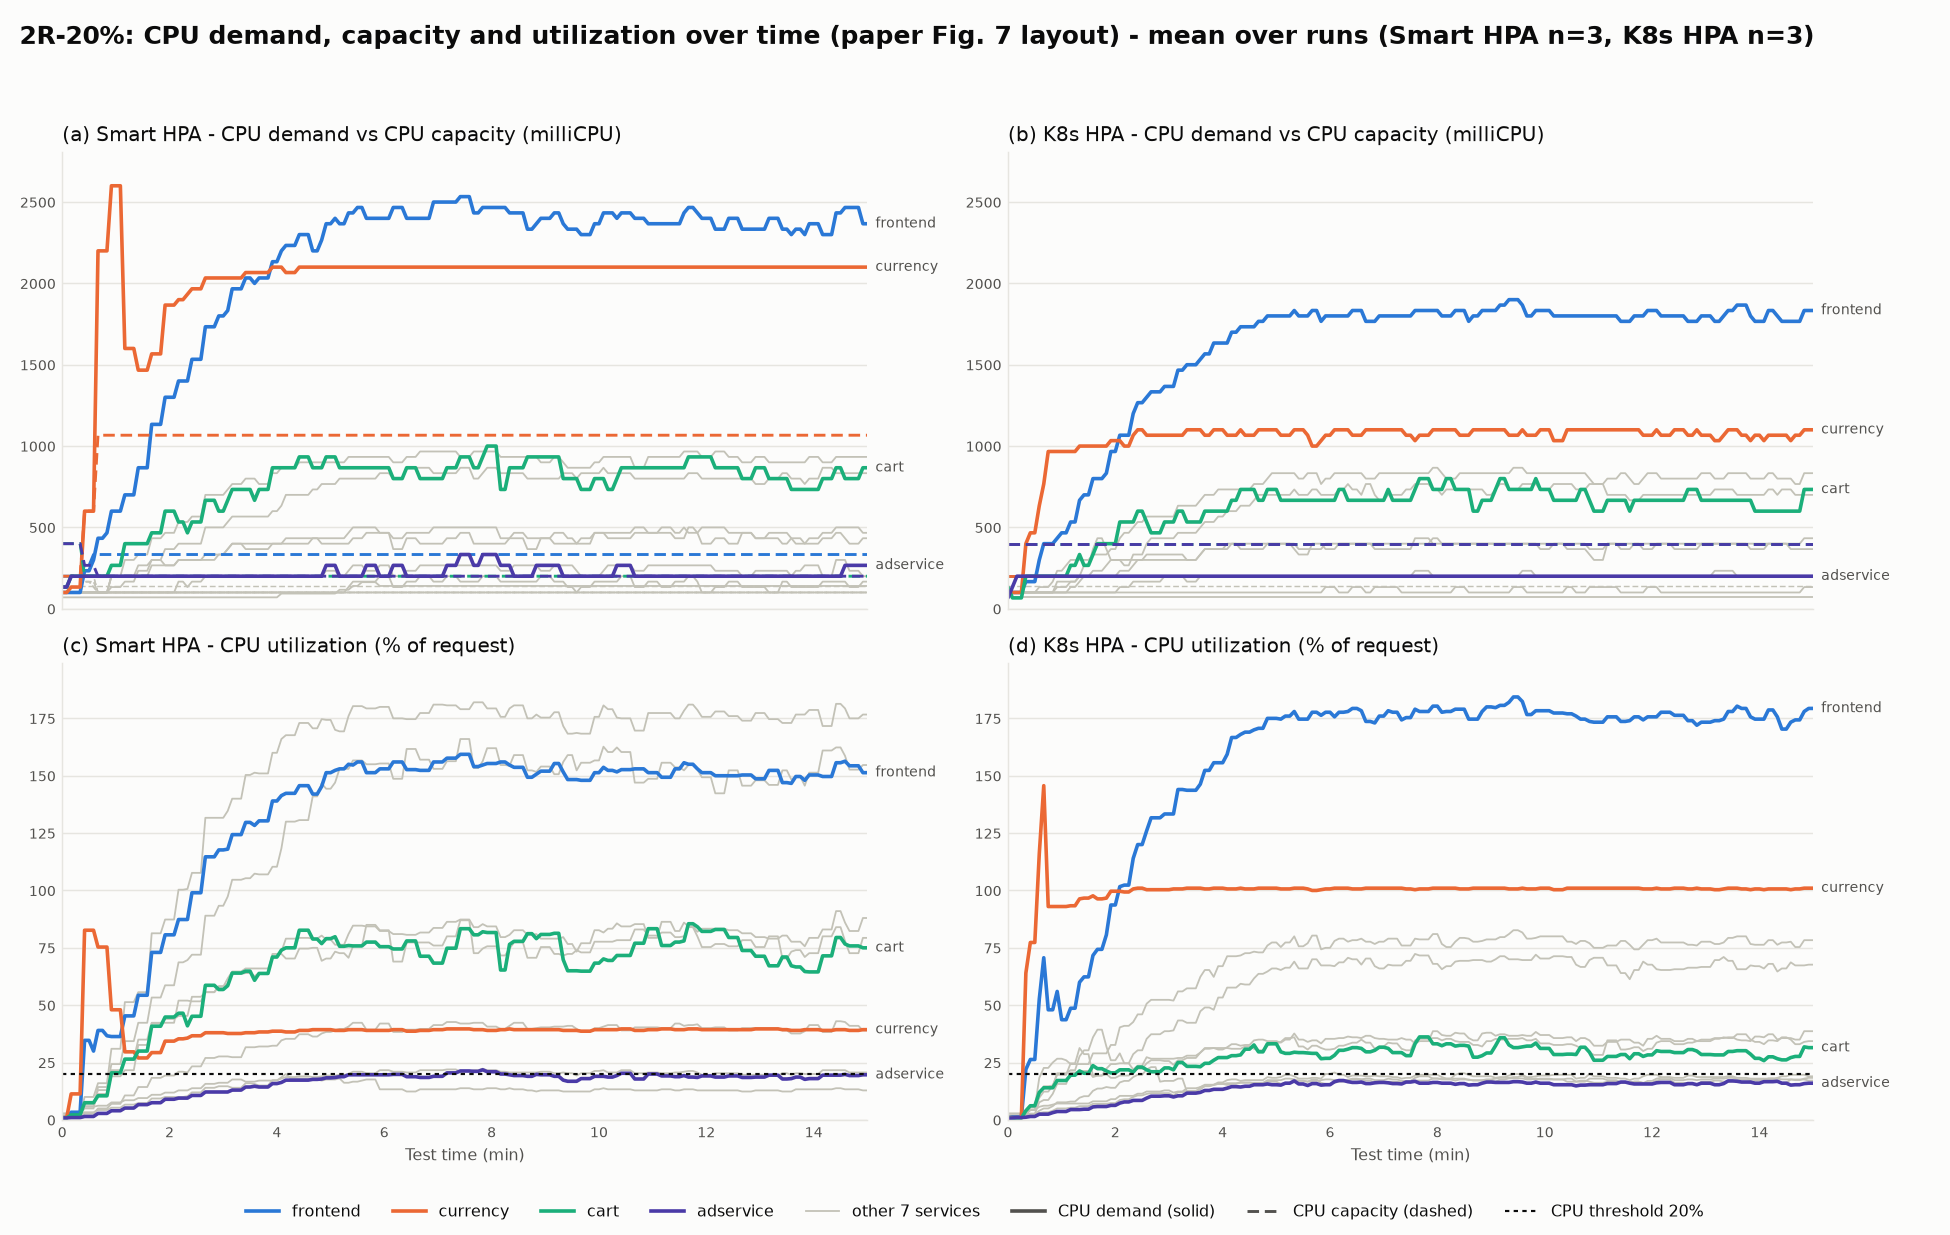
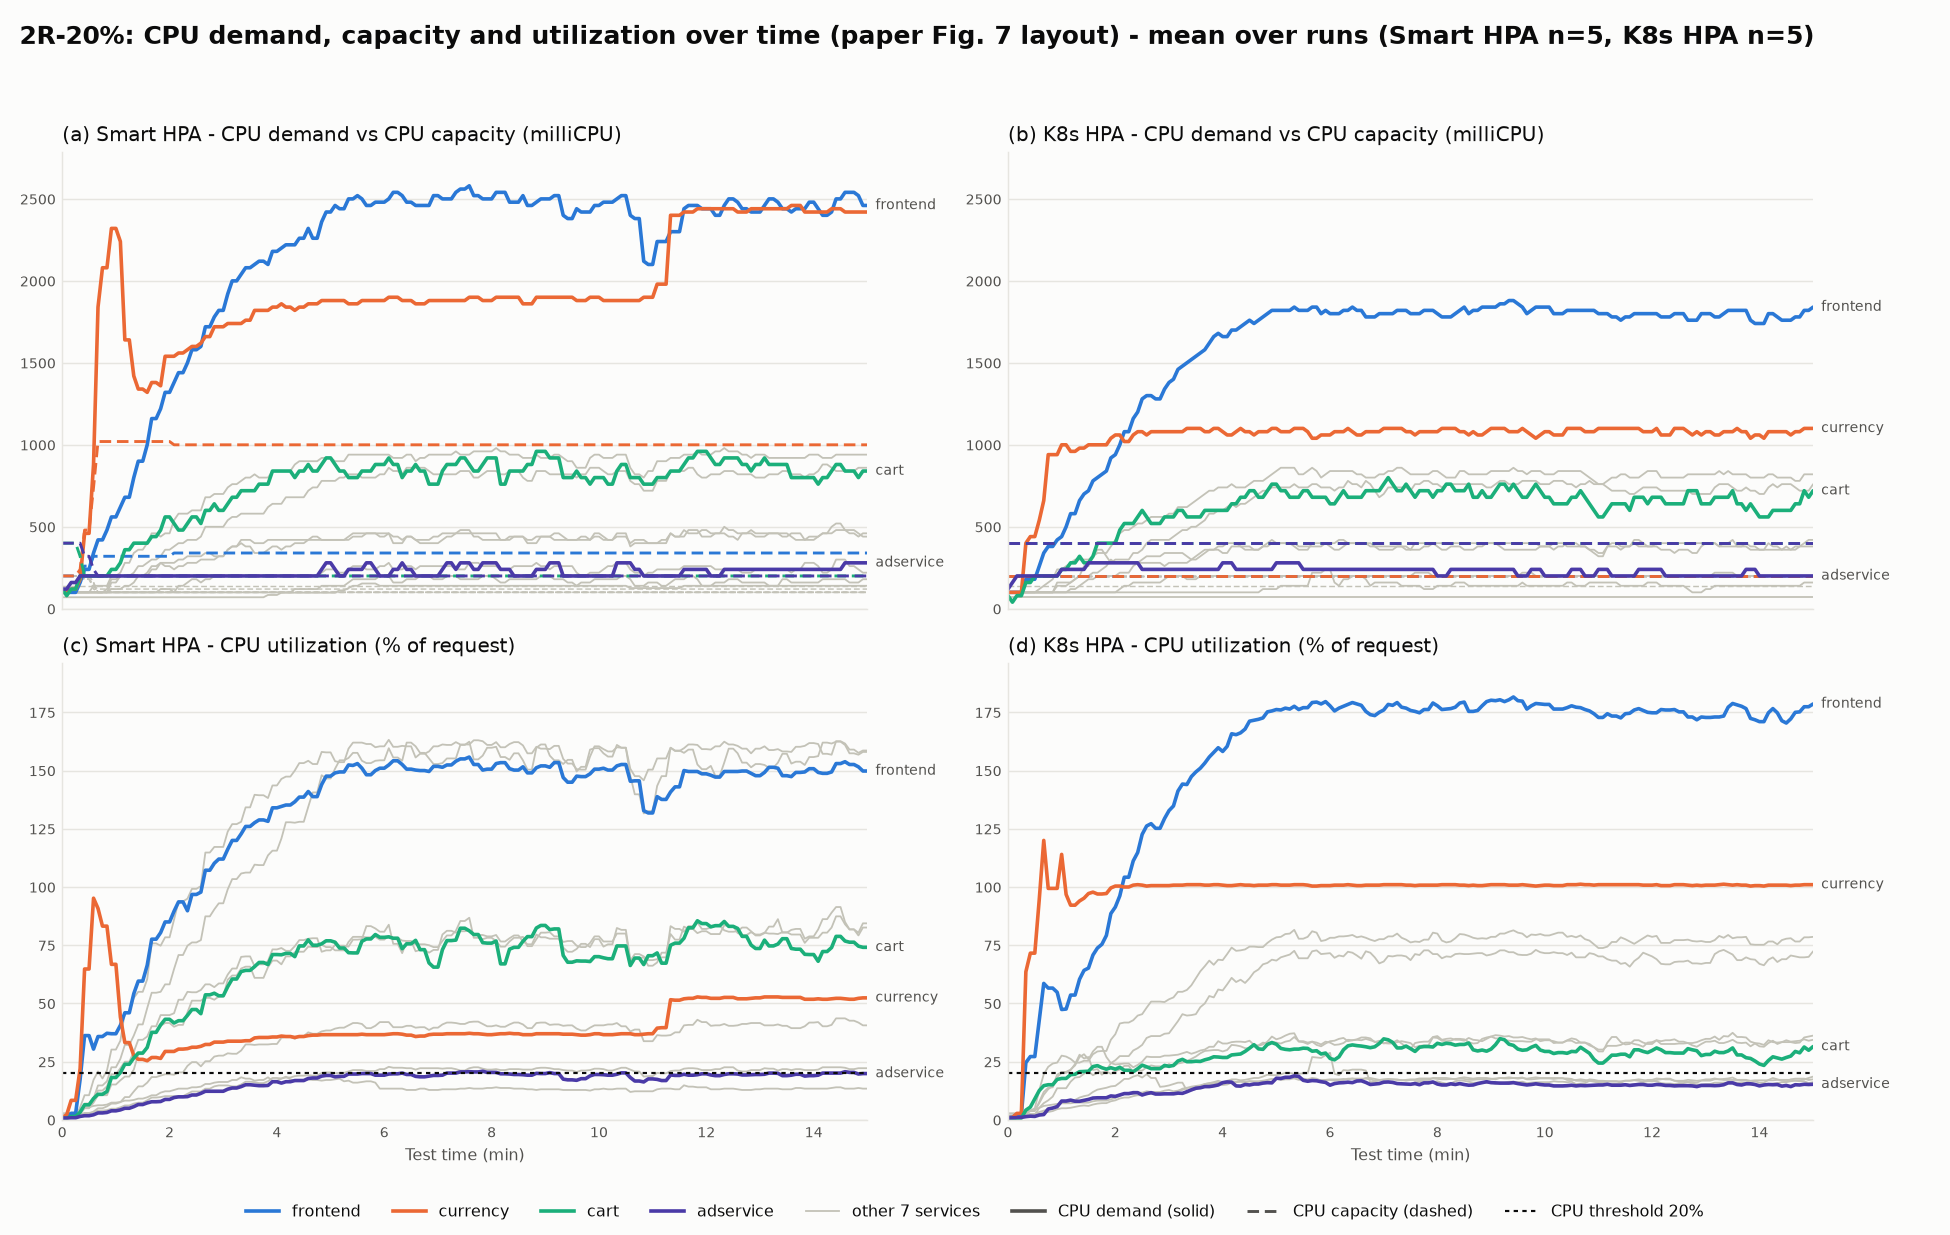
Redraw Fig. 6 and 2R-20% Fig. 7 with runs 4-5
fig6_services.png/.csv and 2R-20/comparison/fig7_timeline.png were last
drawn on 07/10, before the 2R-20% runs 4-5 of 12/10, so the 2R-20% panels
still showed n=3. Rebuilt with make_paper_figs.py; numbers now match
comparison.md (Supply 2409 vs 2141m, Underprovision 5188 vs 3728m).
The 5R-50% figures are unchanged.

plan.md: clearer definition of CPU Overutilization in the metrics table.

diff --git a/plan.md b/plan.md
@@ -166,7 +166,7 @@ Lý do chọn 2R-20% cho ProSmart: đó là kịch bản Smart HPA yếu nhất 
 | Chỉ số | Ý nghĩa | Tốt khi |
 |---|---|---|
 | Supply CPU (milliCPU) | CPU của các replica đang được cấp | Cao |
-| CPU Overutilization (%) | Phần CPU vượt ngưỡng | Thấp |
+| CPU Overutilization (%) | CPU % (so với request) lúc vượt ngưỡng, lúc dưới ngưỡng tính 0; mức ứng dụng = tổng 11 service nên có thể > 100% | Thấp |
 | Overutilization Time (phút) | Thời gian có ít nhất 1 service vượt ngưỡng | Thấp |
 | CPU Overprovision (milliCPU) | CPU thừa = capacity − demand | Thấp |
 | Overprovision Time (phút) | Thời gian không service nào thiếu CPU | Cao |
